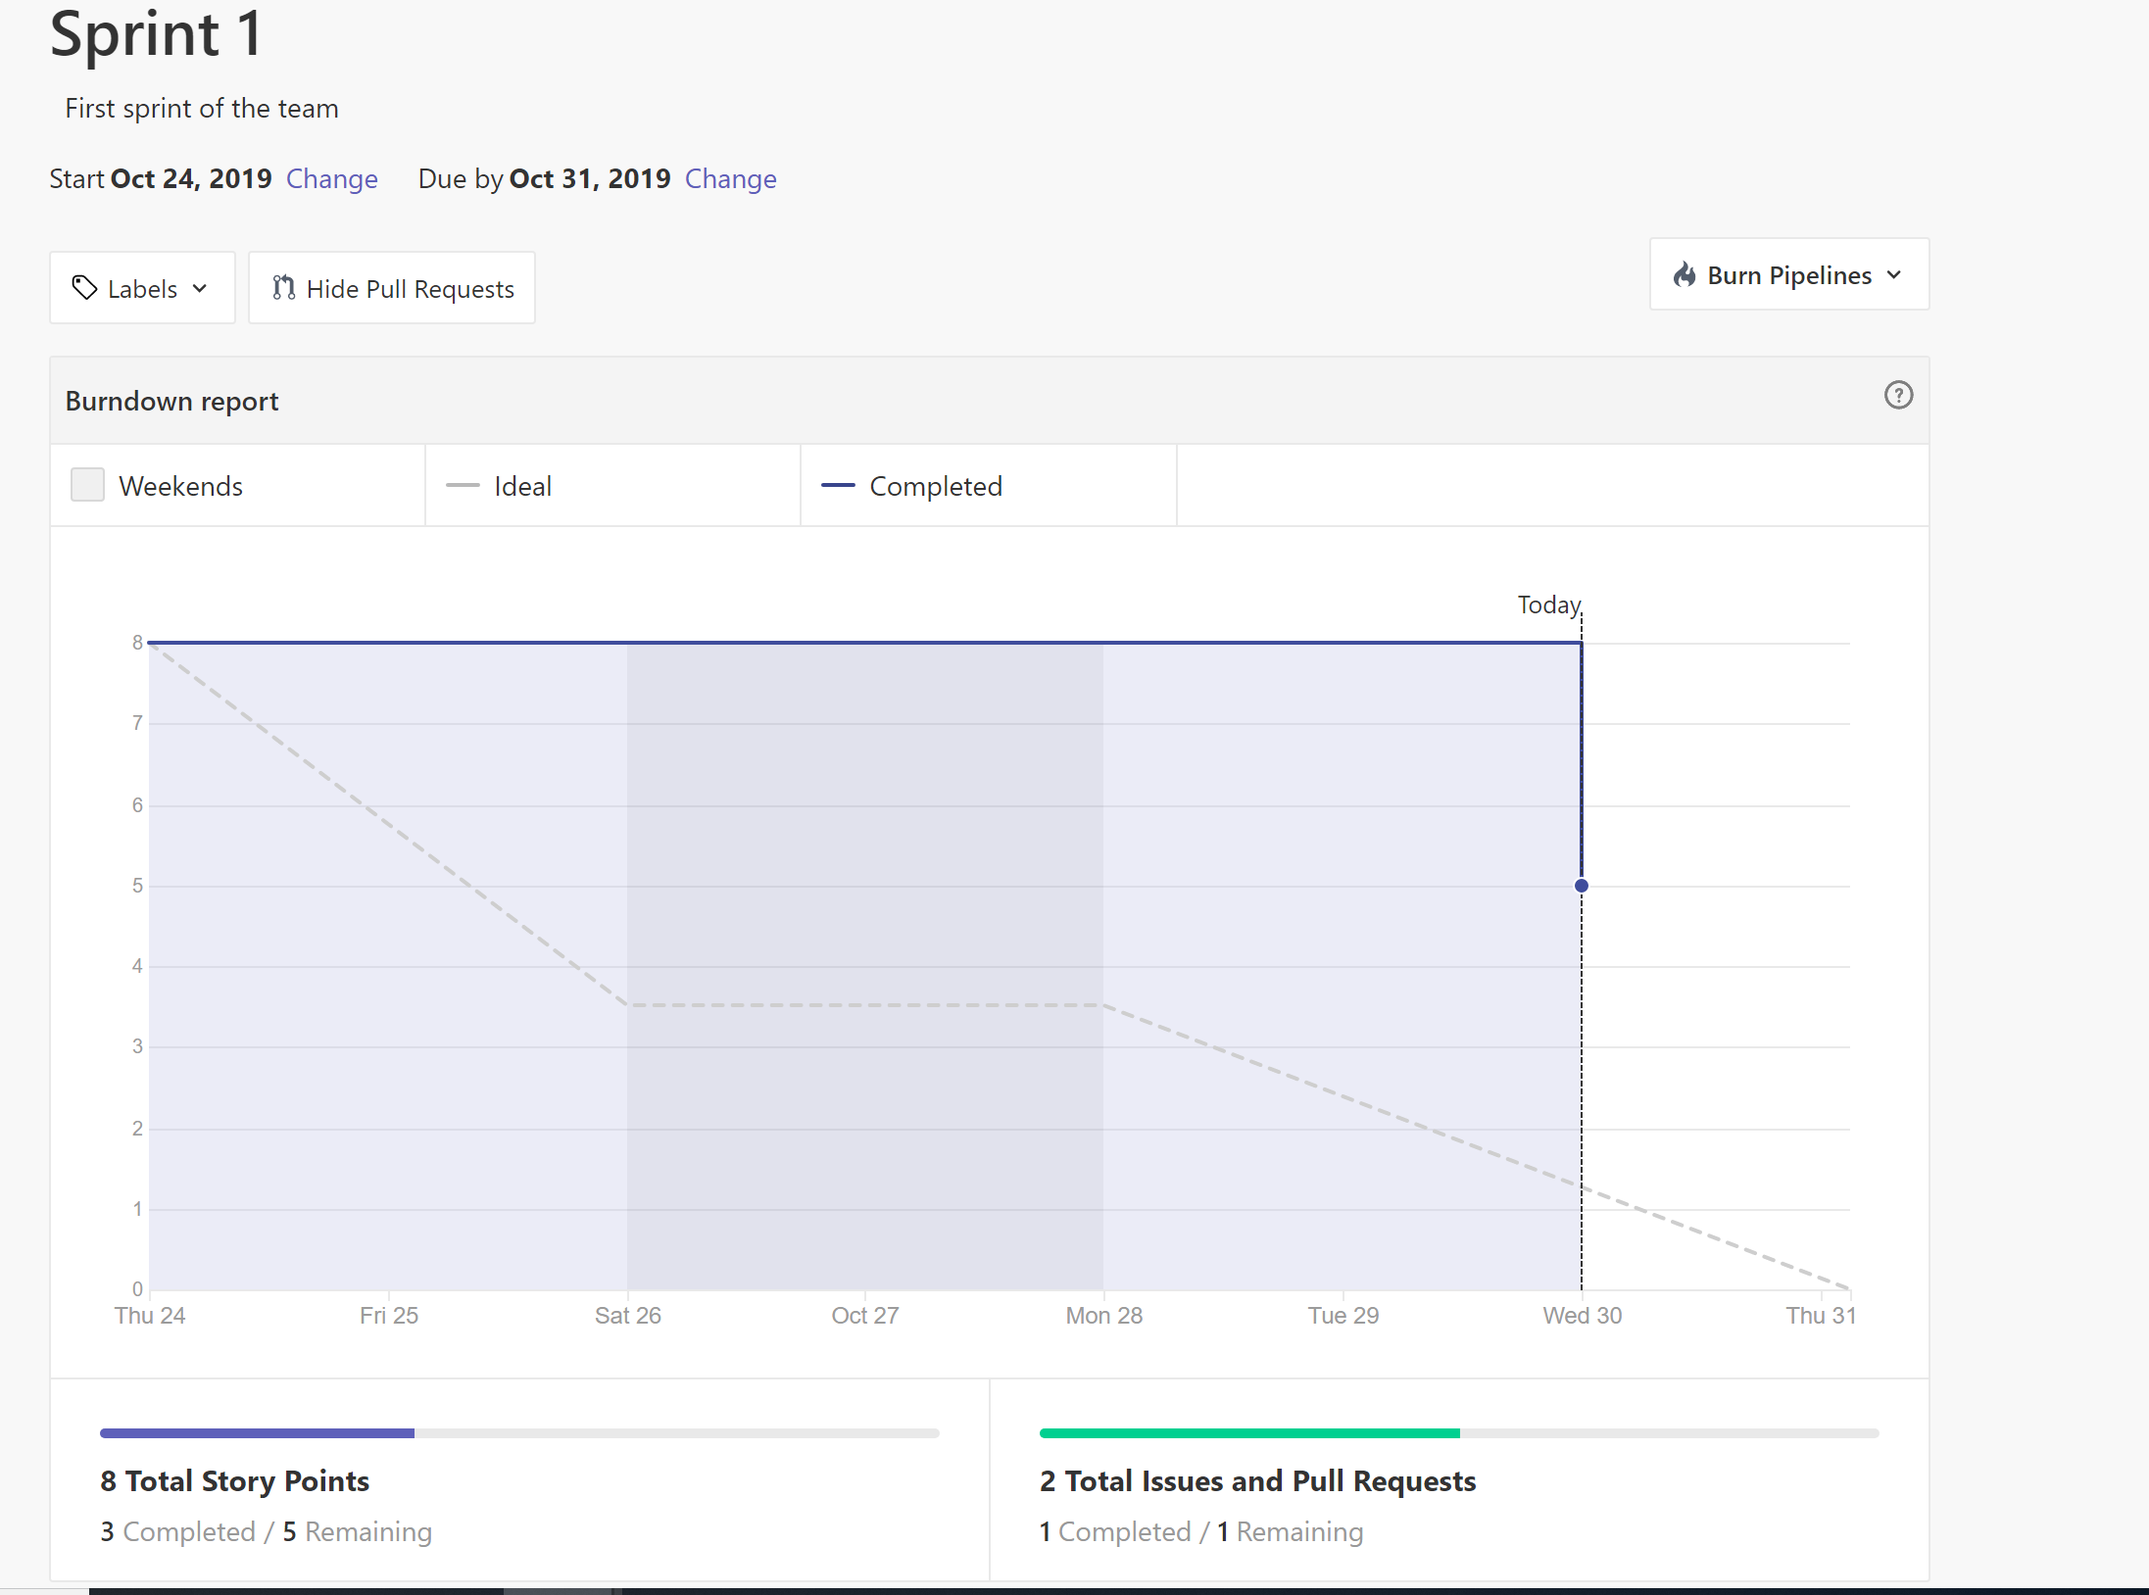
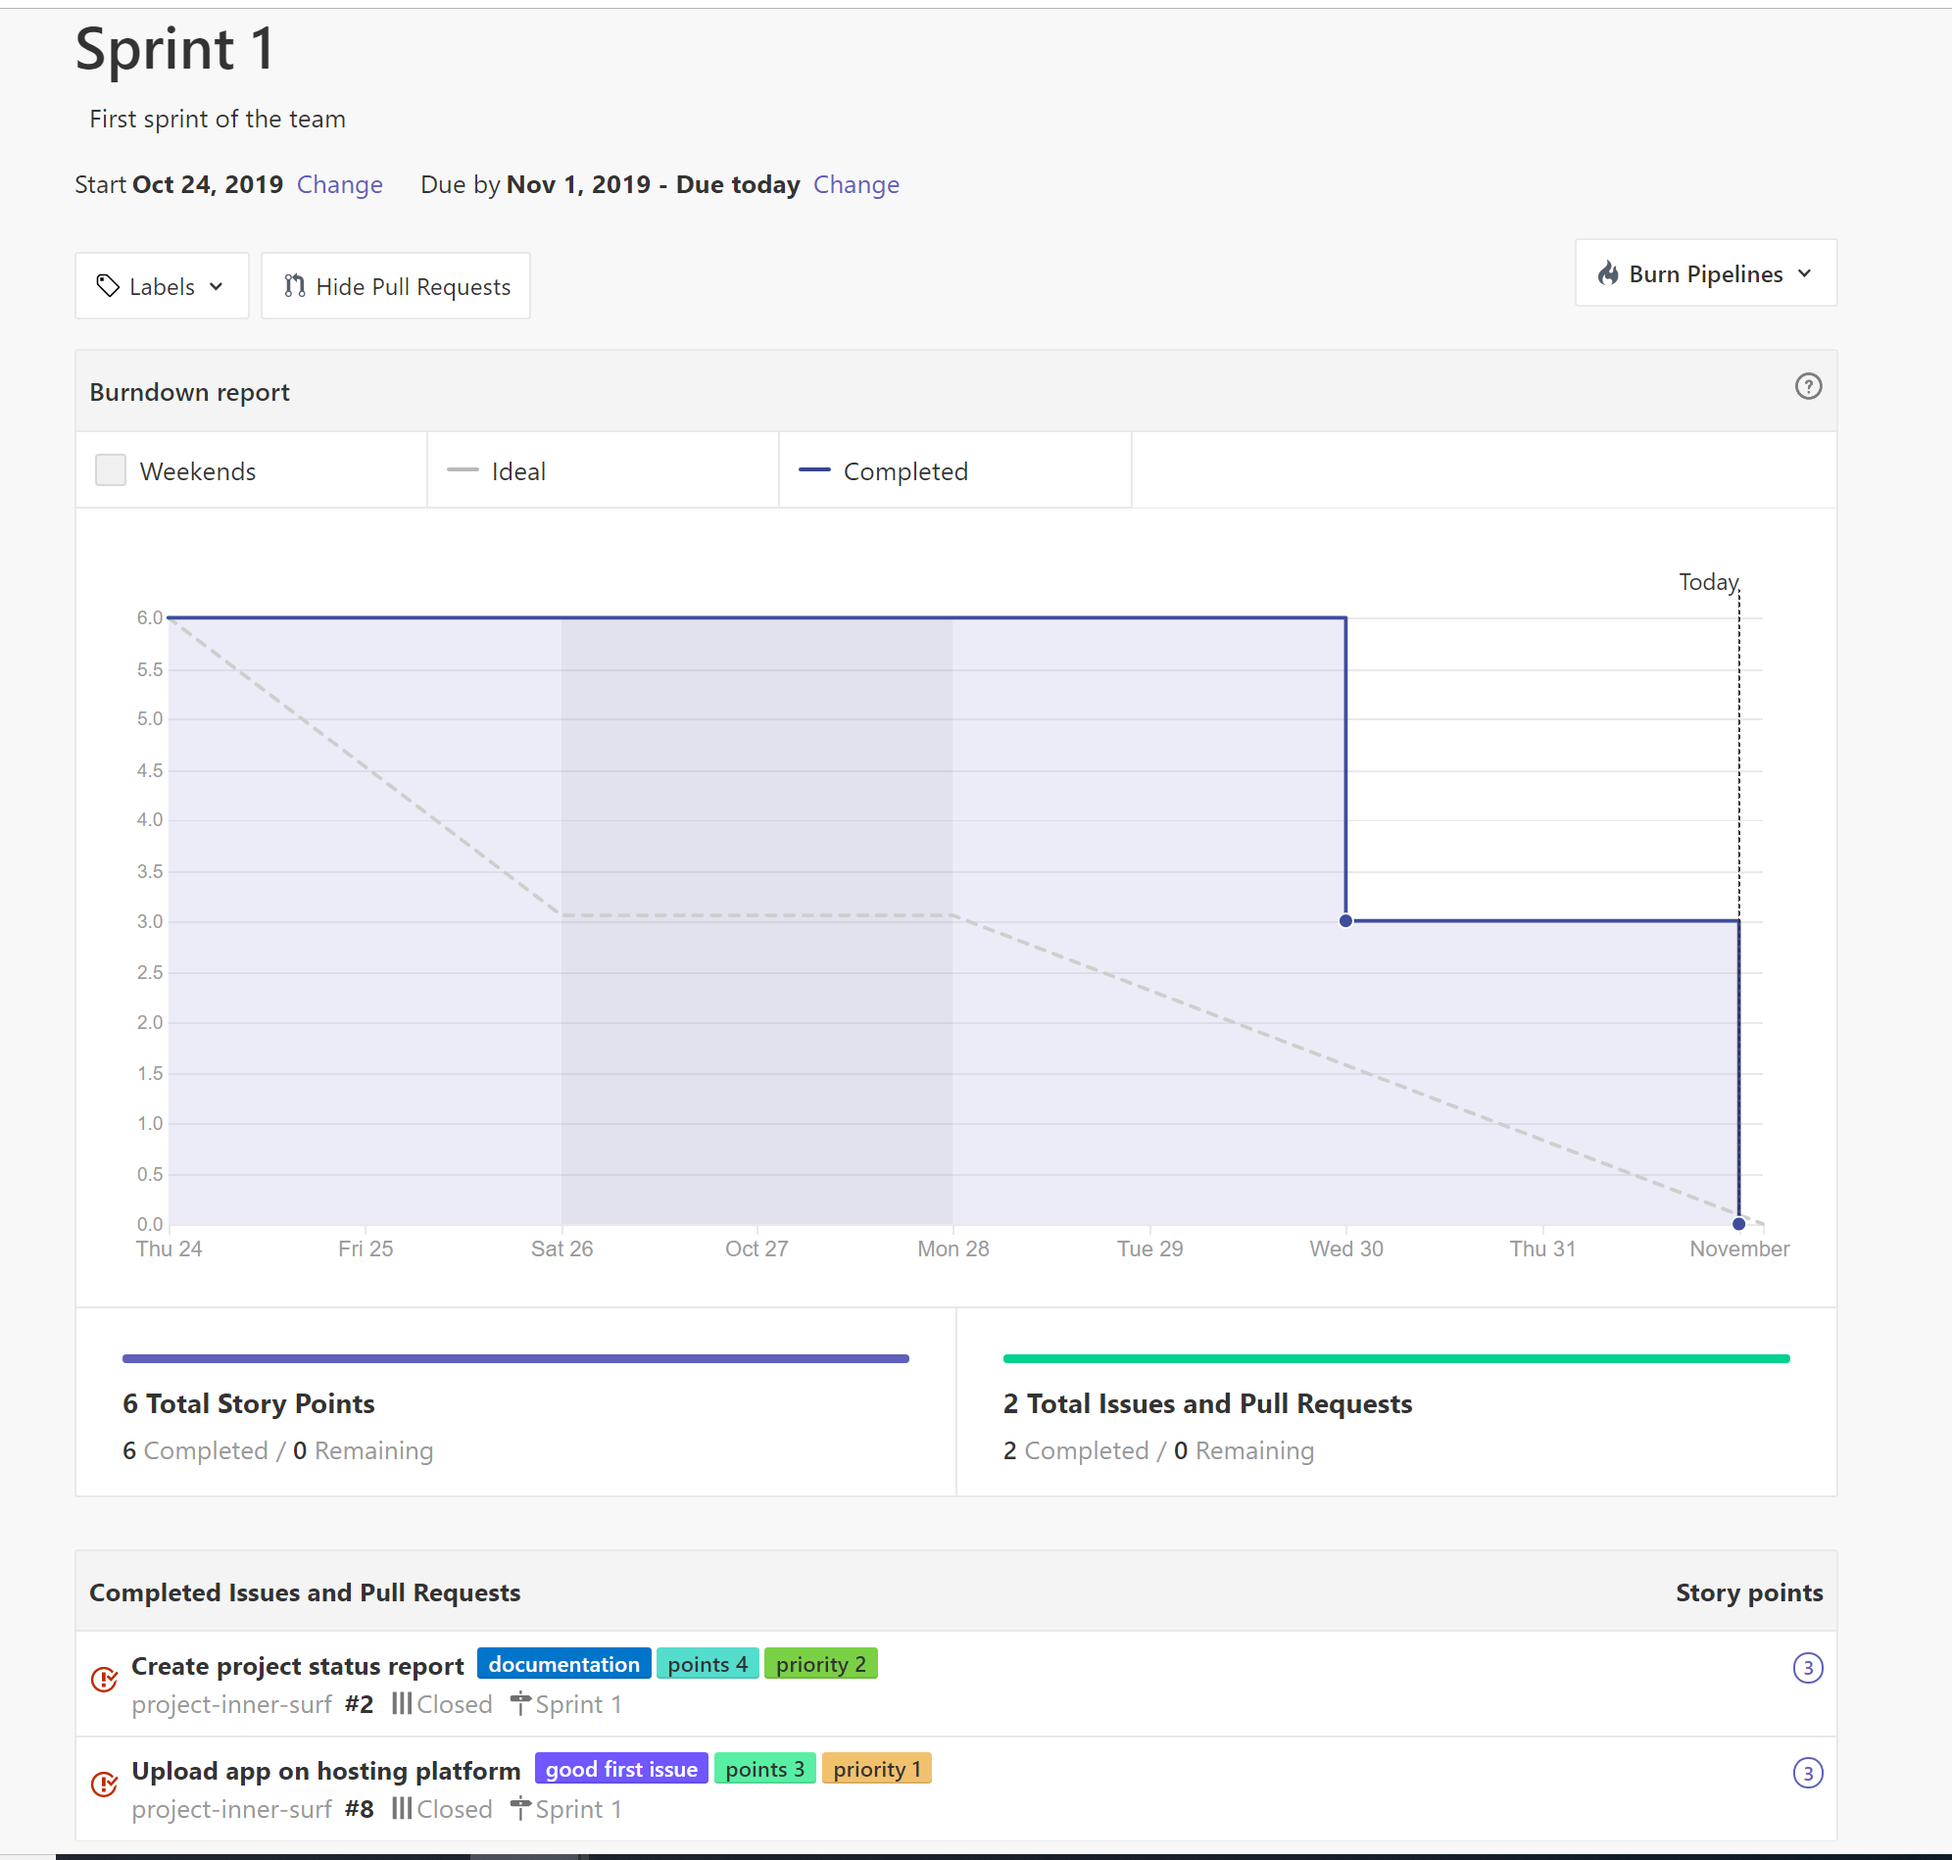
Updating charts and status report

diff --git a/index.html b/index.html
@@ -28,18 +28,20 @@
 </div>
 <h3> Sprint Completed Stories</h3>
 <ul>
-<li>View about page</li>
 <li>Project Status Report</li>
+<li>Upload app on hosting platform</li>
+
 </ul>
-<p>We worked on the project status report as part of the documentation of this project. We created the user stories, milestones and project dashboard in github. We also conducted a product backlog grooming session. We went through the starter code to understand it. With respect to the coding, we worked on the code for viewing the 'about page'.</p>
+<p>We worked on the project status report as part of the documentation of this project. We created the user stories, milestones and project dashboard in github. We also conducted a product backlog grooming session. We went through the starter code to understand it. We uploaded the starter code on the heroku app. We faced challenges in uploading the code to the heroku app, because of some code changes that we initially made. The key lesson from the challenges was that the we decided to work on a branch so that the mainline is not affected.   </p>
 </div>
 <div>
 <h3>Product Backlog</h3>
 
-<p>While we have not determined the final contents of the sprint 2, we are going to be focused on the stories which will add more value to the end user. We have therefore currently prioritized vewing the events details and creation of new events for the next sprint.</p> 
+<p>While we have not determined the final contents of the sprint 2, we are going to be focused on the stories which will add more value to the end user. We have therefore currently prioritized vewing the events details and creation of new events for the next sprint.In addition, we will also be working on the view page.</p> 
 <ul>
 <li>Create new events</li>
 <li>View event details</li>
+<li>View about page</li>
 <li>View home page</li>
 <li>RSVP for an event</li>
 <li>Support an event</li>
